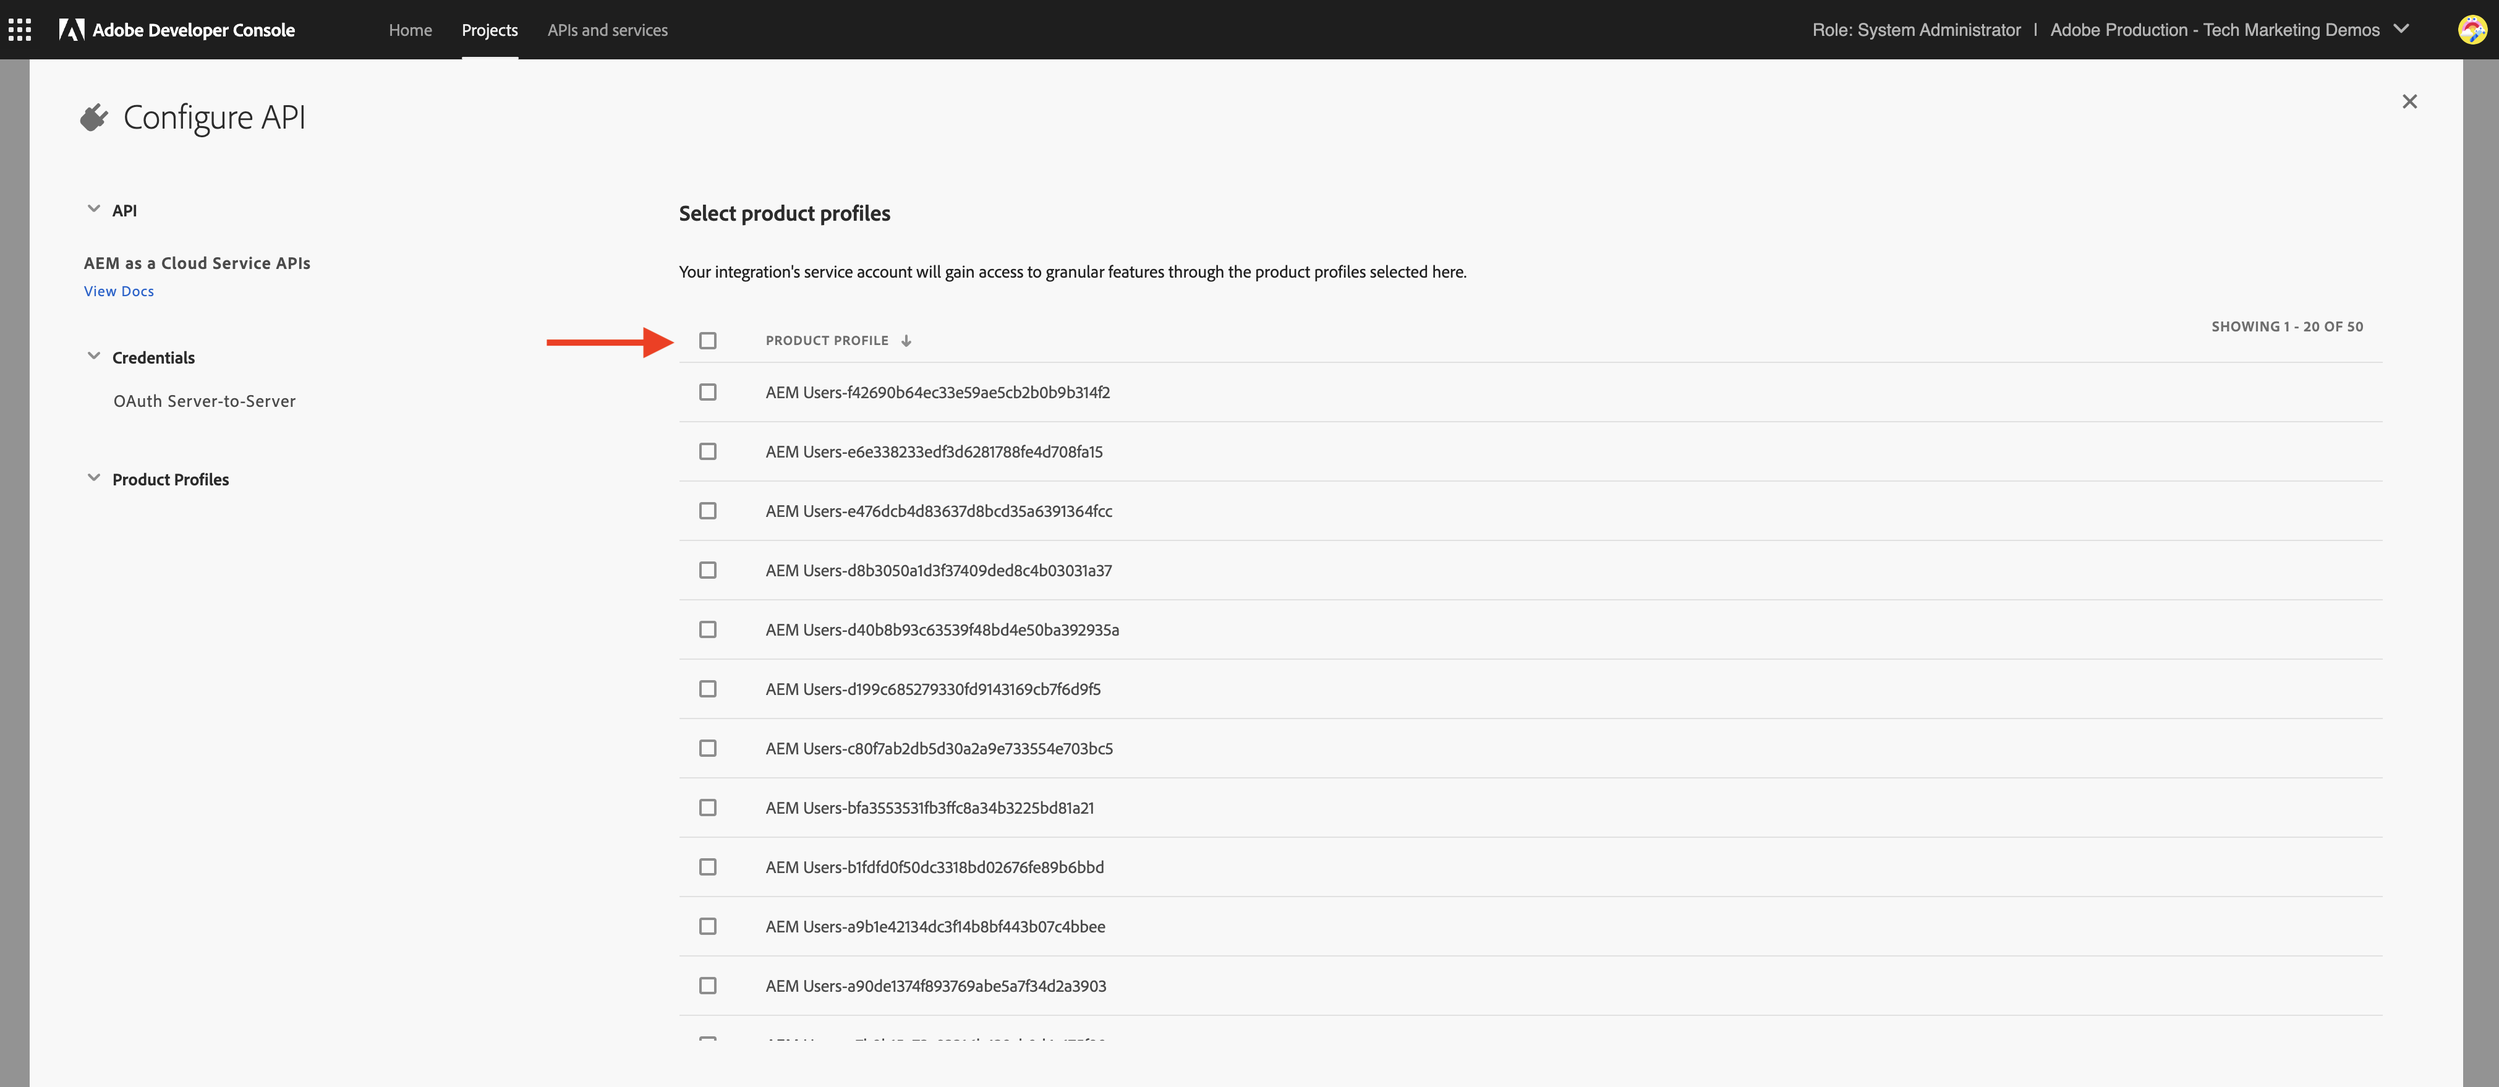
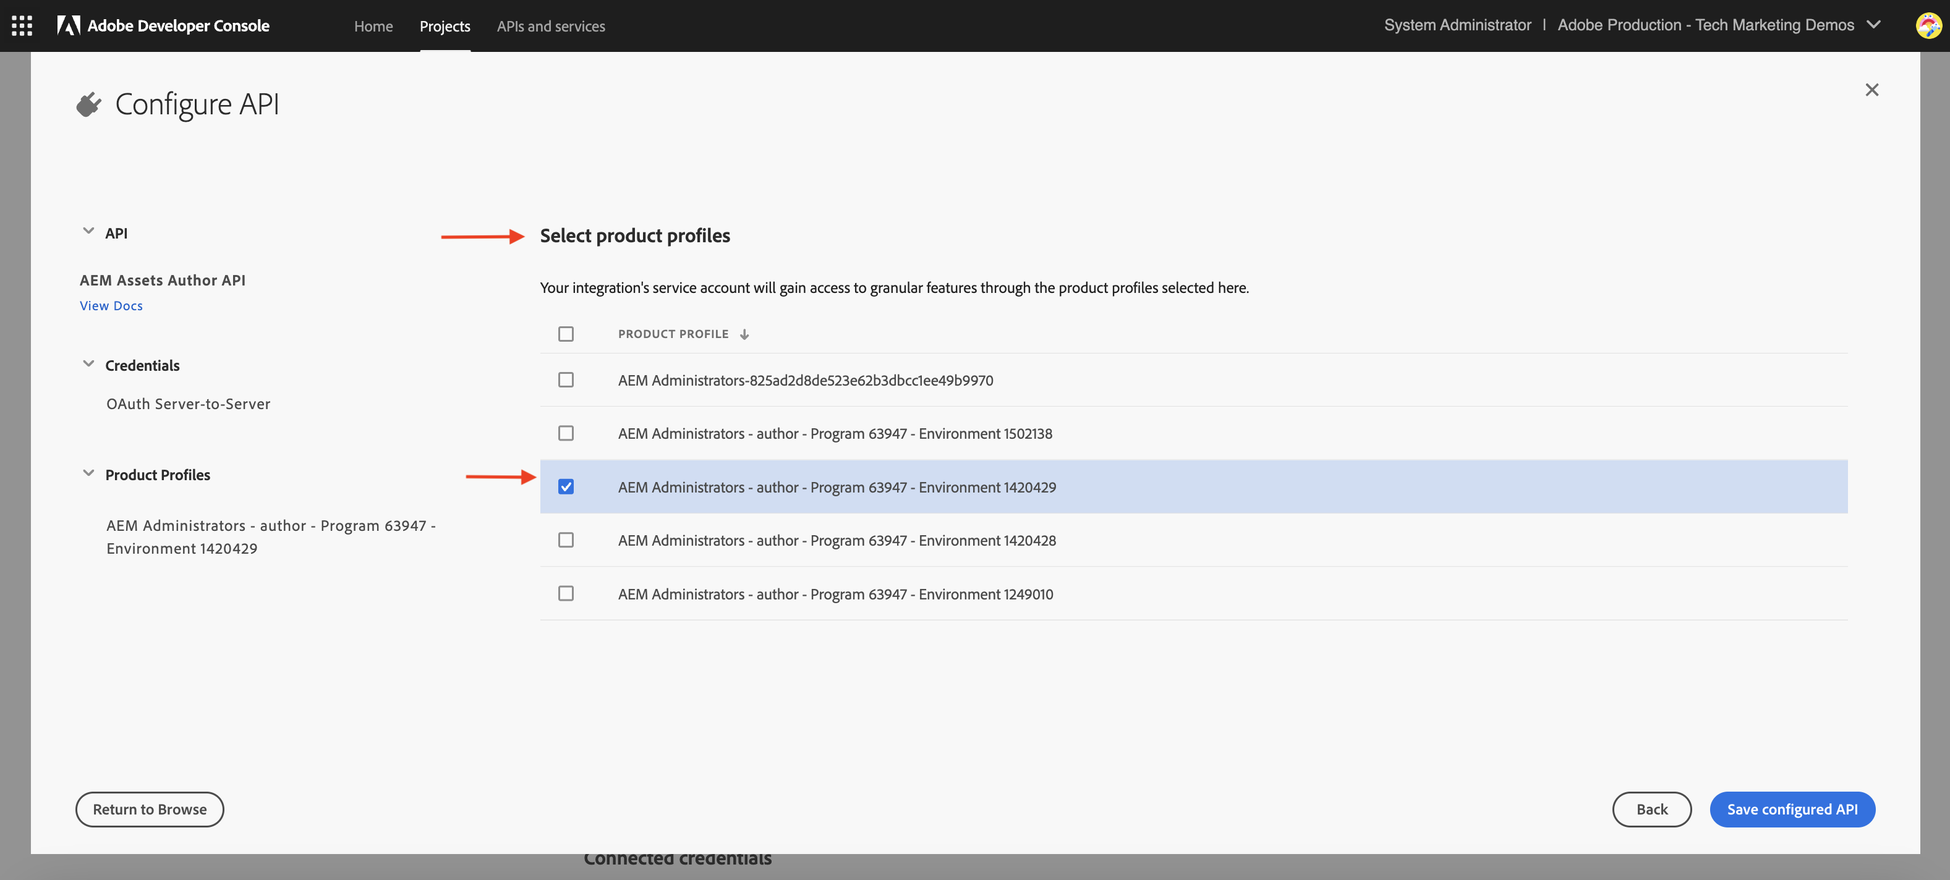
Refresh of AEM Assets Events & PIM integration  (#1579)
* Add AEM Assets Events - PIM Integration documentation

---------

diff --git a/help/cloud-service/eventing/examples/assets-pim-integration.md b/help/cloud-service/eventing/examples/assets-pim-integration.md
@@ -1,0 +1,329 @@
+---
+title: AEM Assets events for PIM integration
+description: Learn how to integrate AEM Assets and Product Information Management (PIM) systems for asset metadata updates.
+version: Cloud Service
+feature: Developing, App Builder
+topic: Development, Architecture, Content Management
+role: Architect, Developer
+level: Beginner
+doc-type: Tutorial
+duration: 761
+last-substantial-update: 2024-02-13
+jira: KT-14901
+thumbnail: KT-14901.jpeg
+exl-id: 070cbe54-2379-448b-bb7d-3756a60b65f0
+---
+# AEM Assets events for PIM integration
+
+>[!IMPORTANT]
+>
+>This tutorial uses OpenAPI-based AEM APIs. They are available as part of an early access program, if you are interested in accessing them, we encourage you to email [aem-apis@adobe.com](mailto:aem-apis@adobe.com) with a description of your use case.
+
+Learn how to receive an AEM Event and act on it to update the content state in AEM using the OpenAPI-based Assets Author API.
+
+How to process the received event depends on the business requirements. For example, the event data can be used to update the third-party system, or AEM, or both. 
+
+This example demonstrates how a third-party system, such as a Product Information Management (PIM) system, can be integrated with AEM as a Cloud Service Assets. Upon receiving an AEM Assets event, it is processed to retrieve additional metadata from the PIM system and update the asset metadata in AEM. The updated asset metadata can include additional information like SKU, supplier name, or other product details.
+
+To receive and process the AEM Assets event, the [Adobe I/O Runtime](https://developer.adobe.com/runtime/docs/guides/overview/what_is_runtime/), a serverless platform is used. However, other event processing systems like Webhook in your third-party system or Amazon EventBridge can also be used.
+
+The high-level flow of the integration is as follows:
+
+![AEM Assets events for PIM integration](../assets/examples/assets-pim-integration/aem-assets-pim-integration.png)
+
+1. The AEM Author service triggers an _Asset Processing Completed_ event when an asset upload is completed and all asset processing activities are also completed. Waiting for asset processing to complete ensures that any out-of-the-box processing, such as metadata extraction, has been completed.
+1. The event is sent to the [Adobe I/O Events](https://developer.adobe.com/events/) service.
+1. The Adobe I/O Events service passes the event to the [Adobe I/O Runtime Action](https://developer.adobe.com/runtime/docs/guides/using/creating_actions/) for processing.
+1. The Adobe I/O Runtime Action calls the API of the PIM system to retrieve additional metadata like SKU, supplier information, or other details.
+1. The additional metadata retrieved from the PIM is then updated in AEM Assets using the OpenAPI-based [Assets Author API](https://developer.adobe.com/experience-cloud/experience-manager-apis/api/experimental/assets/author/).
+
+## Prerequisites
+
+To complete this tutorial, you need:
+
+- AEM as a Cloud Service environment with [AEM Eventing enabled](https://developer.adobe.com/experience-cloud/experience-manager-apis/guides/events/#enable-aem-events-on-your-aem-cloud-service-environment). Also, the sample [WKND Sites](https://github.com/adobe/aem-guides-wknd?#aem-wknd-sites-project) project must be deployed on to it.
+
+- Access to the [Adobe Developer Console](https://developer.adobe.com/developer-console/docs/guides/getting-started/).
+
+- [Adobe Developer CLI](https://developer.adobe.com/runtime/docs/guides/tools/cli_install/) installed on your local machine.
+
+## Development steps
+
+The high-level development steps are:
+
+1. [Modernization of AEM as a Cloud Service environment](https://experienceleague.adobe.com/en/docs/experience-manager-learn/cloud-service/aem-apis/invoke-openapi-based-aem-apis#modernization-of-aem-as-a-cloud-service-environment)
+1. [Enable AEM APIs access](https://experienceleague.adobe.com/en/docs/experience-manager-learn/cloud-service/aem-apis/invoke-openapi-based-aem-apis#enable-aem-apis-access)
+1. [Create a project in the Adobe Developer Console (ADC)](./runtime-action.md#Create-project-in-Adobe-Developer-Console)
+1. [Initialize the project for local development](./runtime-action.md#initialize-project-for-local-development)
+1. Configure the project in ADC
+1. Configure the AEM Author service to enable ADC project communication
+1. Develop a runtime action to orchestrate
+    1. metadata retrieval from the PIM system
+    1. metadata update in AEM Assets using the Assets Author API
+1. Create and apply asset metadata schema
+1. Verification of asset upload and metadata update
+
+For details on steps 1-2, refer to the [Invoke OpenAPI-based AEM APIs](https://experienceleague.adobe.com/en/docs/experience-manager-learn/cloud-service/aem-apis/invoke-openapi-based-aem-apis) guide and for steps 3-4 refer to the [Adobe I/O Runtime Action and AEM Events](./runtime-action.md#) example. For steps 5-9, refer to the following sections.
+
+### Configure the project in Adobe Developer Console (ADC)
+
+To receive AEM Assets Events and execute the Adobe I/O Runtime Action created in the previous step, configure the project in ADC.
+
+- In ADC, navigate to the [project](https://developer.adobe.com/console/projects) that you created in step-3. From that project, select the `Stage` workspace here the runtime action is deployed when you run `aio app deploy` as part of the step-4 instructions.
+
+- Click the **Add Service** button and select the **Event** option. In the **Add Events** dialog, select **Experience Cloud** > **AEM Assets**, and click **Next**. 
+    ![AEM Assets Event - add event](../assets/examples/assets-pim-integration/add-aem-assets-event.png)
+
+- In the **Configure event registration** step, select the desired AEMCS instance, then _Asset Processing Completed_ event, and the OAuth Server-to-Server authentication type. 
+  
+    ![AEM Assets Event - configure event](../assets/examples/assets-pim-integration/configure-aem-assets-event.png)
+
+- Finally, in the **How to receive events** step, expand the **Runtime action** option and select the _generic_ action created in the previous step. Click **Save configured events**.
+
+    ![AEM Assets Event - receive event](../assets/examples/assets-pim-integration/receive-aem-assets-event.png)
+
+- Likewise, click the **Add Service** button and select the **API** option. In the **Add an API** modal, select **Experience Cloud** > **AEM Assets Author API** and click **Next**. 
+
+    ![Add AEM Assets Author API - Configure project](../assets/examples/assets-pim-integration/add-aem-api.png)
+
+- Then select **OAuth Server-to-Server** for authentication type and click **Next**.
+
+- Then select the correct **Product Profile** that is associated with the AEM Assets environment from which the event is being produced and have sufficient access to update assets there. Finally, click the **Save configured API** button.
+
+    ![Add AEM Assets Author API - Configure project](../assets/examples/assets-pim-integration/add-aem-api-product-profile-select.png)
+ 
+  In my case the _AEM Administrators - author - Program XXX - Environment YYY_ product profile is selected, it has **AEM Assets API Users** service enabled.
+
+    ![Add AEM Assets Author API - Example Product Profile](../assets/examples/assets-pim-integration/aem-api-product-profile.png)
+
+## Configure AEM instance to enable ADC Project communication
+
+To enable the ADC Project's OAuth Server-to-Server credential ClientID to communication with the AEM instance, you need to configure the AEM instance.
+
+It is done by defining the configuration in the `config.yaml` file in the AEM Project. Then, deploy the `config.yaml` file using the Config Pipeline in the Cloud Manager.
+
+- In AEM Project, locate or create the `config.yaml` file from the `config` folder.
+
+    ![Locate config YAML](../assets/examples/assets-pim-integration/locate-config-yaml.png)
+
+- Add the following configuration to the `config.yaml` file.
+
+    ```yaml
+    kind: "API"
+    version: "1.0"
+    metadata: 
+        envTypes: ["dev", "stage", "prod"]
+    data:
+        allowedClientIDs:
+            author:
+            - "<ADC Project's OAuth Server-to-Server credential ClientID>"
+    ```
+
+    Replace `<ADC Project's OAuth Server-to-Server credential ClientID>` with the actual ClientID of the ADC Project's OAuth Server-to-Server credential.
+
+- Commit the config changes to the Git repository and push the changes to the remote repository.
+
+- Deploy the above changes using the Config Pipeline in the Cloud Manager. Note that the `config.yaml` file can also be installed in an RDE, using command line tooling.
+
+    ![Deploy config.yaml](../assets/examples/assets-pim-integration/config-pipeline.png)
+
+### Develop runtime action
+
+To perform the metadata retrieval and update, start by updating the auto created _generic_ action code in `src/dx-excshell-1/actions/generic` folder. 
+
+Refer to the attached [WKND-Assets-PIM-Integration.zip](../assets/examples/assets-pim-integration/WKND-Assets-PIM-Integration.zip) file for the complete code, and the below section highlights the key files.
+
+- The `src/dx-excshell-1/actions/generic/mockPIMCommunicator.js` file mocks the PIM API call to retrieve additional metadata like SKU and supplier name. This file is used for demo purposes. Once you have the end-to-end flow working, replace this function with a call to your real PIM system to retrieve metadata for the asset.
+
+    ```javascript
+    /**
+     * Mock PIM API to get the product data such as SKU, Supplier, etc.
+     *
+     * In a real-world scenario, this function would call the PIM API to get the product data.
+     * For this example, we are returning mock data.
+     *
+     * @param {string} assetId - The assetId to get the product data.
+     */
+    module.exports = {
+        async getPIMData(assetId) {
+            if (!assetId) {
+            throw new Error('Invalid assetId');
+            }
+            // Mock response data for demo purposes
+            const data = {
+            SKUID: 'MockSKU 123',
+            SupplierName: 'mock-supplier',
+            // ... other product data
+            };
+            return data;
+        },
+    };
+    ```
+
+- The `src/dx-excshell-1/actions/generic/aemCommunicator.js` file updates the asset metadata in AEM using the [Assets Author API](https://developer.adobe.com/experience-cloud/experience-manager-apis/api/experimental/assets/author/).
+
+    ```javascript
+    const fetch = require('node-fetch');
+    ...
+    /**
+    *  Get IMS Access Token using Client Credentials Flow
+    *
+    * @param {*} clientId - IMS Client ID from ADC project's OAuth Server-to-Server Integration
+    * @param {*} clientSecret - IMS Client Secret from ADC project's OAuth Server-to-Server Integration
+    * @param {*} scopes - IMS Meta Scopes from ADC project's OAuth Server-to-Server Integration as comma separated strings
+    * @returns {string} - Returns the IMS Access Token
+    */
+    async function getIMSAccessToken(clientId, clientSecret, scopes) {
+      const adobeIMSV3TokenEndpointURL = 'https://ims-na1.adobelogin.com/ims/token/v3';
+      const options = {
+        method: 'POST',
+        headers: {
+          'Content-Type': 'application/x-www-form-urlencoded',
+        },
+        body: `grant_type=client_credentials&client_id=${clientId}&client_secret=${clientSecret}&scope=${scopes}`,
+      };
+      const response = await fetch(adobeIMSV3TokenEndpointURL, options);
+      const responseJSON = await response.json();
+      return responseJSON.access_token;
+    }    
+    async function updateAEMAssetMetadata(metadataDetails, aemAssetEvent, params) {
+      ...
+      // Transform the metadata details to JSON Patch format,
+      // see https://developer.adobe.com/experience-cloud/experience-manager-apis/api/experimental/assets/author/#operation/patchAssetMetadata
+      const transformedMetadata = Object.keys(metadataDetails).map((key) => ({
+        op: 'add',
+        path: `wknd-${key.toLowerCase()}`,
+        value: metadataDetails[key],
+      }));
+      ...
+      // Get ADC project's OAuth Server-to-Server Integration credentials
+      const clientId = params.ADC_CECREDENTIALS_CLIENTID;
+      const clientSecret = params.ADC_CECREDENTIALS_CLIENTSECRET;
+      const scopes = params.ADC_CECREDENTIALS_METASCOPES;
+      // Get IMS Access Token using Client Credentials Flow
+      const access_token = await getIMSAccessToken(clientId, clientSecret, scopes);
+      // Call AEM Author service to update the metadata using Assets Author API
+      // See https://developer.adobe.com/experience-cloud/experience-manager-apis/api/experimental/assets/author/
+      const res = await fetch(`${aemAuthorHost}/adobe/assets/${assetId}/metadata`, {
+        method: 'PATCH',
+        headers: {
+          'Content-Type': 'application/json-patch+json',
+          'If-Match': '*',
+          'X-Adobe-Accept-Experimental': '1',
+          'X-Api-Key': 'aem-assets-management-api', // temporary value
+          Authorization: `Bearer ${access_token}`,
+        },
+        body: JSON.stringify(transformedMetadata),
+      });
+      ...
+    }
+    module.exports = { updateAEMAssetMetadata };
+    ```
+
+    The `.env` file stores the ADC Project's OAuth Server-to-Server credentials details, and they are passed as parameters to the action using `ext.config.yaml` file. Refer to the [App Builder Configuration Files](https://developer.adobe.com/app-builder/docs/guides/configuration/) for managing secrets and action parameters.
+- The `src/dx-excshell-1/actions/model` folder contains `aemAssetEvent.js` and `errors.js` files, which are used by the action to parse the received event and handle errors respectively.
+- The `src/dx-excshell-1/actions/generic/index.js` file uses the above mentioned modules to orchestrate the metadata retrieval and update.
+
+    ```javascript
+    ...
+    let responseMsg;
+    // handle the challenge probe request, they are sent by I/O to verify the action is valid
+    if (params.challenge) {
+      logger.info('Challenge probe request detected');
+      responseMsg = JSON.stringify({ challenge: params.challenge });
+    } else {
+      logger.info('AEM Asset Event request received');
+      // create AEM Asset Event object from request parameters
+      const aemAssetEvent = new AEMAssetEvent(params);
+      // Call mock PIM API to get the product data such as SKU, Supplier, etc.
+      const mockPIMData = await mockPIMAPI.getPIMData(
+        aemAssetEvent.getAssetName(),
+      );
+      logger.info('Mock PIM API response', mockPIMData);
+      // Update PIM received data in AEM as Asset metadata
+      const aemUpdateStatus = await updateAEMAssetMetadata(
+        mockPIMData,
+        aemAssetEvent,
+        params,
+      );
+      logger.info('AEM Asset metadata update status', aemUpdateStatus);
+      if (aemUpdateStatus) {
+        // create response message
+        responseMsg = JSON.stringify({
+          message:
+            'AEM Asset Event processed successfully, updated the asset metadata with PIM data.',
+          assetdata: {
+            assetName: aemAssetEvent.getAssetName(),
+            assetPath: aemAssetEvent.getAssetPath(),
+            assetId: aemAssetEvent.getAssetId(),
+            aemHost: aemAssetEvent.getAEMHost(),
+            pimdata: mockPIMData,
+          },
+        });
+      } 
+      // response object
+      const response = {
+        statusCode: 200,
+        body: responseMsg,
+      };
+      // Return the response to the caller
+      return response;
+      ...
+    }
+    ```
+
+- Deploy the updated action to Adobe I/O Runtime using the following command:
+
+  ```bash
+  $ aio app deploy
+  ```
+
+### Create and apply asset metadata schema
+
+By default, the WKND Sites project does not have the asset metadata schema to display the PIM specific metadata like SKU, Supplier Name, etc. Let's create and apply the asset metadata schema to an asset folder in the AEM instance.
+
+1. Log in to the AEM as a Cloud Service Asset instance and be in the [Asset view](https://experienceleague.adobe.com/en/docs/experience-manager-learn/assets/authoring/switch-views).
+
+    ![AEM Assets view](../assets/examples/assets-pim-integration/aem-assets-view.png)
+
+1. Navigate to the **Settings** > **Metadata Forms** option from the left rail and click the **Create** button. In the **Create Metadata Form** dialog, enter the following details and click **Create**.
+    - Name: `PIM`
+    - Use existing form structure as template: `Check`
+    - Choose from: `default`
+
+    ![Create Metadata Form](../assets/examples/assets-pim-integration/create-metadata-form.png)
+
+1. Click the **+** icon to add a new **PIM** tab and add **Single Line Text** components to it.     
+
+    ![Add PIM Tab](../assets/examples/assets-pim-integration/add-pim-tab.png)
+
+    The following table lists the metadata properties and their corresponding fields.
+
+    | Label | Placeholder | Metadata property |
+    | --- | --- | --- |
+    | SKU | Auto populated via AEM Eventing integration | `wknd-skuid` |
+    | Supplier Name | Auto populated via AEM Eventing integration | `wknd-suppliername` |
+
+1. Click **Save** and **Close** to save the metadata form.
+
+1. Finally, apply the **PIM** metadata schema to the **PIM** folder.
+
+    ![Apply Metadata Schema](../assets/examples/assets-pim-integration/apply-metadata-schema.png)
+
+With the above steps, the assets from the **Adventures** folder are ready to display the PIM specific metadata like SKU, Supplier Name, etc.
+
+### Asset upload and metadata verification
+
+To verify the AEM Assets and PIM integration, upload an asset to the **Adventures** folder in AEM Assets. The PIM tab in the asset details page should display the SKU and Supplier Name metadata.
+
+  ![AEM Assets upload](../assets/examples/assets-pim-integration/aem-assets-metadata-update.png)
+
+## Concept and key takeaways
+
+The asset metadata synchronization between AEM and other systems like PIM are often required in the enterprise. Using AEM Eventing such requirements can be achieved. 
+
+- The asset metadata retrieval code is executed outside of AEM, avoiding the load on the AEM Author service, thus an event-driven architecture that scales independently.
+- The newly introduced Assets Author API is used to update the asset metadata in AEM.
+- The API authentication uses OAuth server-to-server (aka client credentials flow), see [OAuth Server-to-Server credential implementation guide](https://developer.adobe.com/developer-console/docs/guides/authentication/ServerToServerAuthentication/implementation/).
+- Instead of Adobe I/O Runtime Actions, other webhooks or Amazon EventBridge can be used to receive the AEM Assets event and process the metadata update.
+- Asset Events via AEM Eventing empower businesses to automate and streamline critical processes, fostering efficiency and coherence across the content ecosystem.

diff --git a/help/cloud-service/eventing/overview.md b/help/cloud-service/eventing/overview.md
@@ -119,5 +119,14 @@ For more information, see [AEM Events processing via Adobe I/O Events](https://d
           Learn how to process received AEM Events using Adobe I/O Runtime Action. The event processing includes AEM callback, event data persistence, and displaying them in the SPA.
         </p>
       </td>
-  </tr>    
+  </tr>
+  <tr>
+    <td>
+        <a  href="./examples/assets-pim-integration.md"><img alt="AEM Assets events for PIM integration" src="./assets/examples/assets-pim-integration/PIM-integration-tile.png"/></a>
+        <div><strong><a href="./examples/assets-pim-integration.md">AEM Assets events for PIM integration</a></strong></div>
+        <p>
+          Learn how to integrate AEM Assets and Product Information Management (PIM) systems for metadata updates.
+        </p>
+      </td>
+  </tr> 
 </table>

diff --git a/help/cloud-service/TOC.md b/help/cloud-service/TOC.md
@@ -191,6 +191,7 @@ team: TM
     + [Journaling - Load AEM Events](./eventing/examples/journaling.md)
     + [Adobe I/O Runtime Action - Receive AEM Events](./eventing/examples/runtime-action.md)
     + [Adobe I/O Runtime Action - Process AEM Events](./eventing/examples/event-processing-using-runtime-action.md)
+    + [AEM Assets Events - PIM Integration](./eventing/examples/assets-pim-integration.md)
 + Migration {#migration}
   + [Content Transfer Tool](./migration/content-transfer-tool.md)
   + [Bulk Import of assets](./migration/bulk-import.md)
